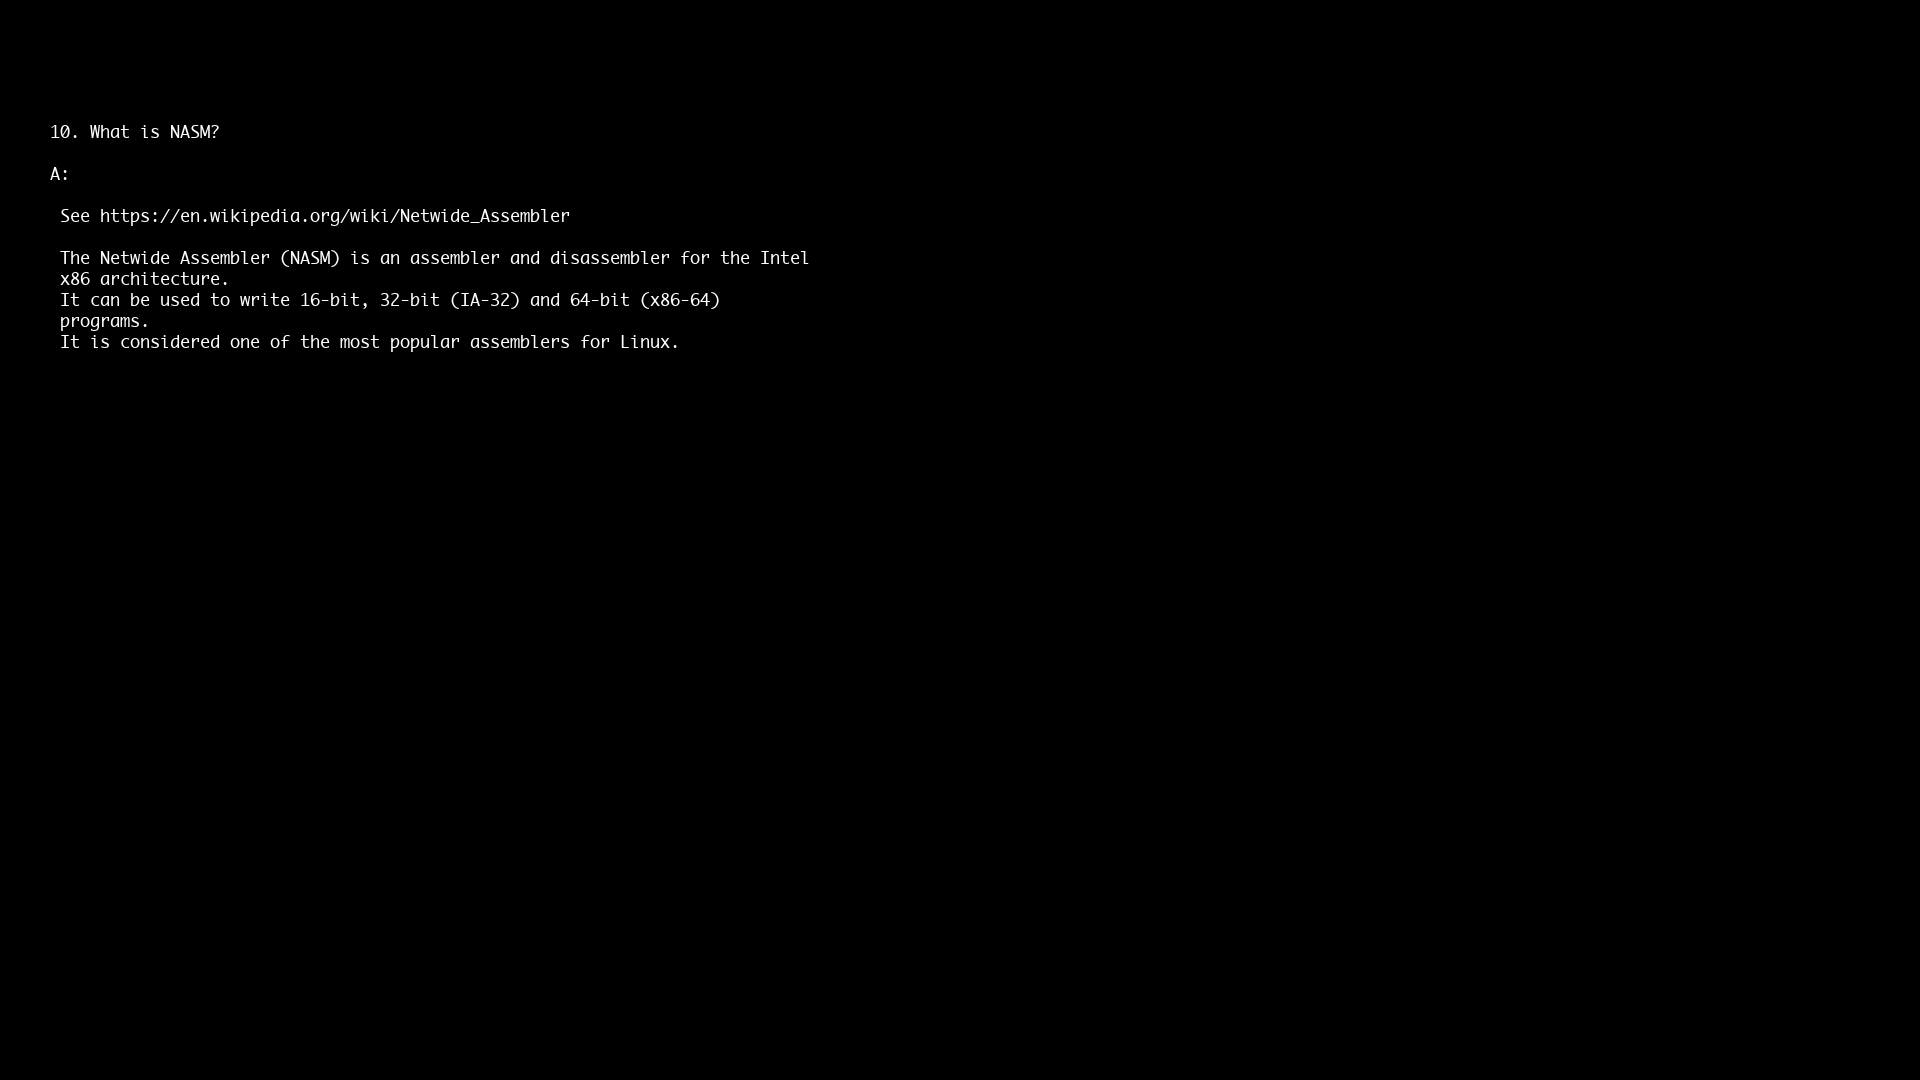
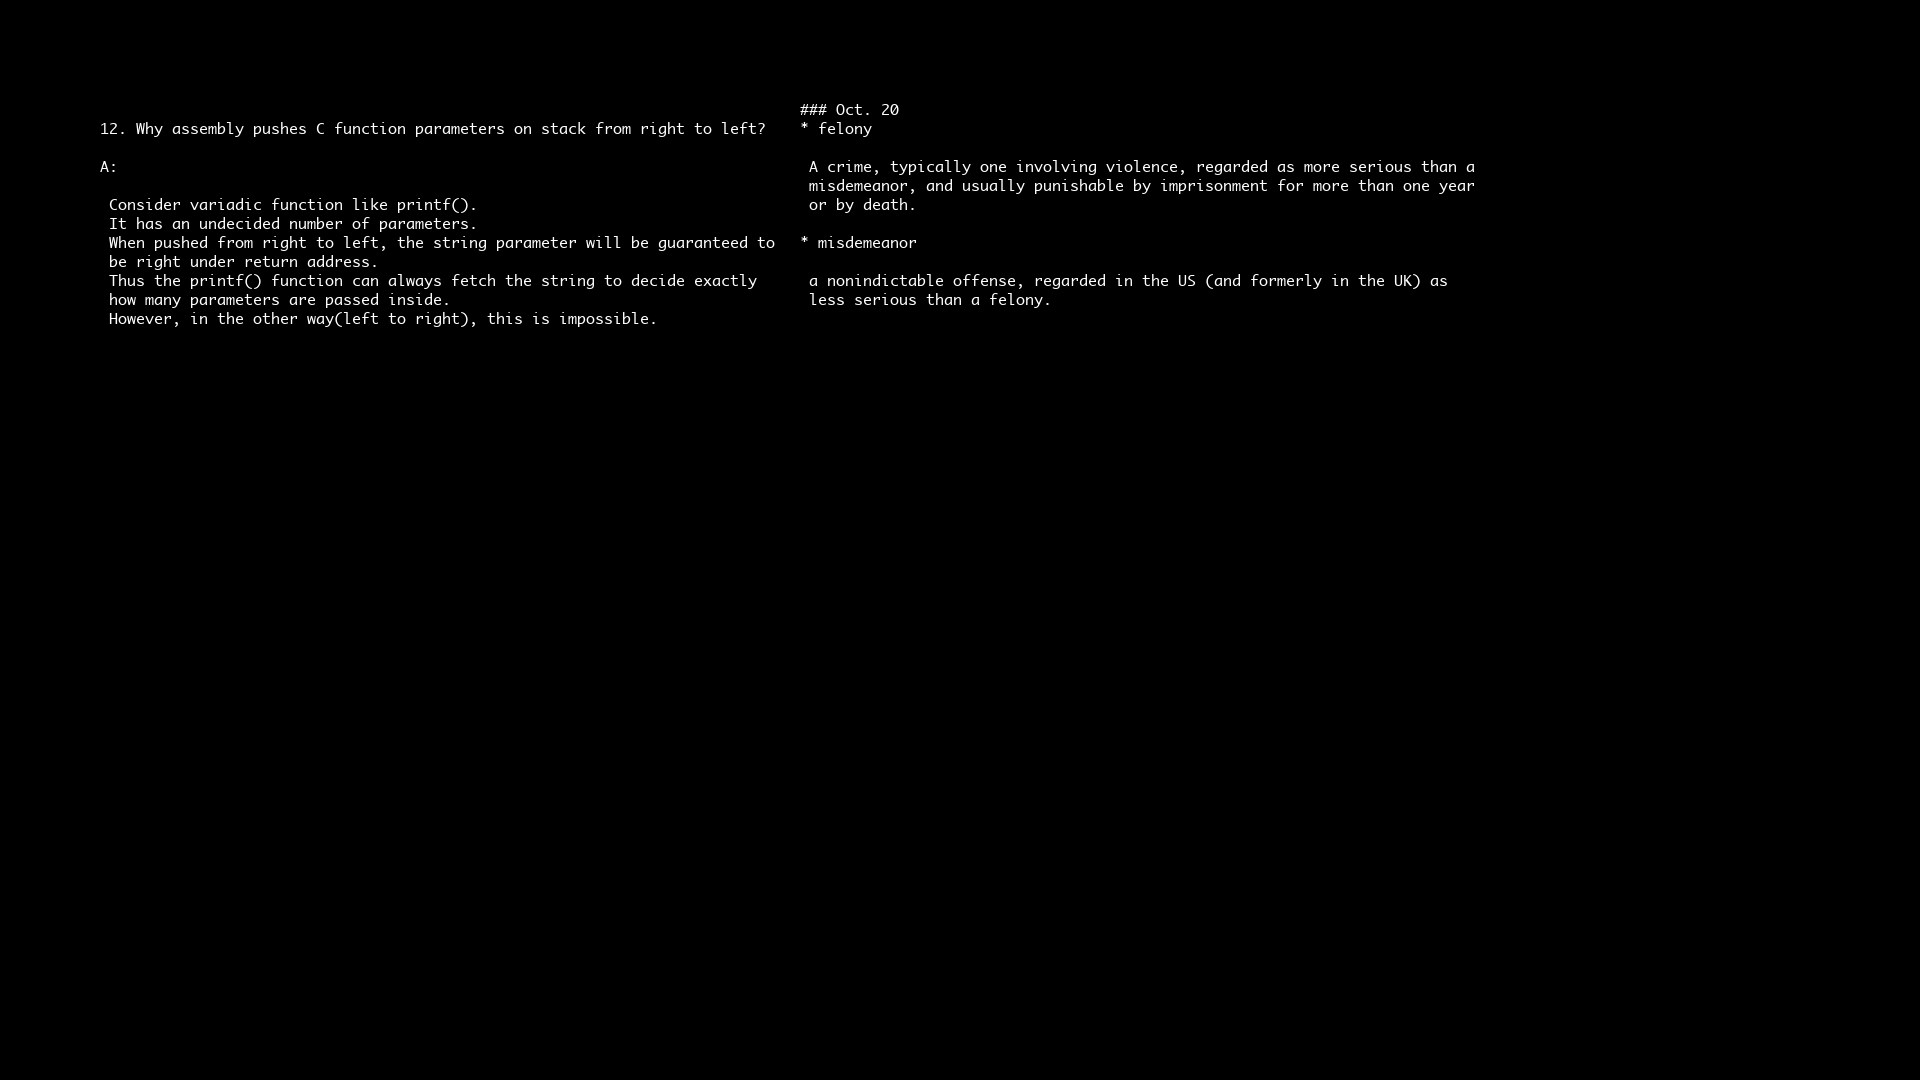
.

diff --git a/generator.py b/generator.py
@@ -5,23 +5,34 @@ from random import sample
 width = 1920
 height = 1080
 num_pics = 10
-font = ImageFont.truetype("Monaco.ttf", size = 17)
+qa_x = 100
+qa_y = 100
+voc_x = 800
+voc_y = 100
+qa_font = ImageFont.truetype("Monaco.ttf", size = 15)
+voc_font = ImageFont.truetype("Monaco.ttf", size = 15)
 
 # grab random QA
 with open('texts/QA.md') as f:
 	contents = f.read()
 	qa_texts = contents.split("---")
 
+# grab random vocabulary
+with open('texts/voc.md') as f:
+	contents = f.read()
+
 
 # generate picture
 qa_indices = sample(range(len(qa_texts)), num_pics)
+voc_message = contents
 for i in range(num_pics):
-	message = qa_texts[qa_indices[i]]
+	qa_texts[qa_indices[i]]
 	img = Image.new('RGB', (width, height), color = 'black')
 
 	imgDraw = ImageDraw.Draw(img)
 
-	imgDraw.text((50, 100), message, font = font,  fill=(255, 255, 255))
+	imgDraw.text((qa_x, qa_y), qa_texts[qa_indices[i]], font = qa_font,  fill=(255, 255, 255))
+	imgDraw.text((voc_x, voc_y), voc_message, font = voc_font,  fill=(255, 255, 255))
 
 	imgName = 'pic/'+ str(i) + '.png'
 	img.save(imgName)

diff --git a/texts/QA.md b/texts/QA.md
@@ -1,4 +1,5 @@
-1. In ```include/asm-i386/bitops.h```, what does line 19: ```#define ADDR (*(volatile long *) addr)``` do?
+1. In ```include/asm-i386/bitops.h```, what does line 19: ```#define ADDR
+(*(volatile long *) addr)``` do?
 
 A:
 
@@ -6,7 +7,8 @@ A:
 	The (volatile long *) inside is a type cast, and the * in left most is a
 	dereferencing operator. 
 ---
-2. What is ```LOCK_PREFIX```(can be seen in many places including ```include/asm-i386/semaphore.h```)?
+2. What is ```LOCK_PREFIX```(can be seen in many places including
+```include/asm-i386/semaphore.h```)?
 
 A: (I)
 
@@ -66,7 +68,9 @@ A:
 	https://www.digitalocean.com/community/tutorials/grep-command-in-linux-unix
 	Basic example: grep -r "hello world" *
 ---
-7. How does read/write spinlock work? How does it allow multiple readers to obtain one lock? Note that rwlock_t is the same as spinlock_t in Linux implementation.
+7. How does read/write spinlock work? How does it allow multiple readers to
+obtain one lock? Note that rwlock_t is the same as spinlock_t in Linux
+implementation.
 
 A: 
 
@@ -91,7 +95,8 @@ A:
 		unlock_spinlock(rw->lock);
 	} // After this function, reader can perform reading tasks
 ---
-8. What is a GIL(Global Interpreter Lock)? Is Python only able to run on one thread?
+8. What is a GIL(Global Interpreter Lock)? Is Python only able to run on one
+thread?
 
 A: 
 	
@@ -156,7 +161,8 @@ A:
 	how many parameters are passed inside. 
 	However, in the other way(left to right), this is impossible. 
 ---
-13. Why mode X of VGA is more popular in early time over the documented 256-color mode(mode 13h)?
+13. Why mode X of VGA is more popular in early time over the documented
+256-color mode(mode 13h)?
 
 A: 
 
@@ -210,7 +216,8 @@ A:
 			char b;
 		} __attribute__((packed)) color;
 ---
-17. How to generate an assembly file with compiler to get both C and assembly inside?
+17. How to generate an assembly file with compiler to get both C and assembly
+inside?
 
 A:
 
@@ -326,7 +333,9 @@ A:
 	The control is returned to a program or procedure that was interrupted by
 	an exception, an external interrupt, or a software-generated interrupt.
 ---
-23. There's a flag called ```IRQF_SAMPLE_DEVICE``` in ```irqflags``` parameter to the ```request_irq``` function(this function stores interrupt handler to interrupt vectors in IRQ descriptor table)?
+23. There's a flag called ```IRQF_SAMPLE_DEVICE``` in ```irqflags``` parameter
+to the ```request_irq``` function(this function stores interrupt handler to
+interrupt vectors in IRQ descriptor table)?
 
 A:
 

diff --git a/texts/voc.md b/texts/voc.md
@@ -1,0 +1,11 @@
+### Oct. 20
+* felony
+	
+	A crime, typically one involving violence, regarded as more serious than a
+	misdemeanor, and usually punishable by imprisonment for more than one year
+	or by death.
+
+* misdemeanor
+	
+	a nonindictable offense, regarded in the US (and formerly in the UK) as
+	less serious than a felony.
